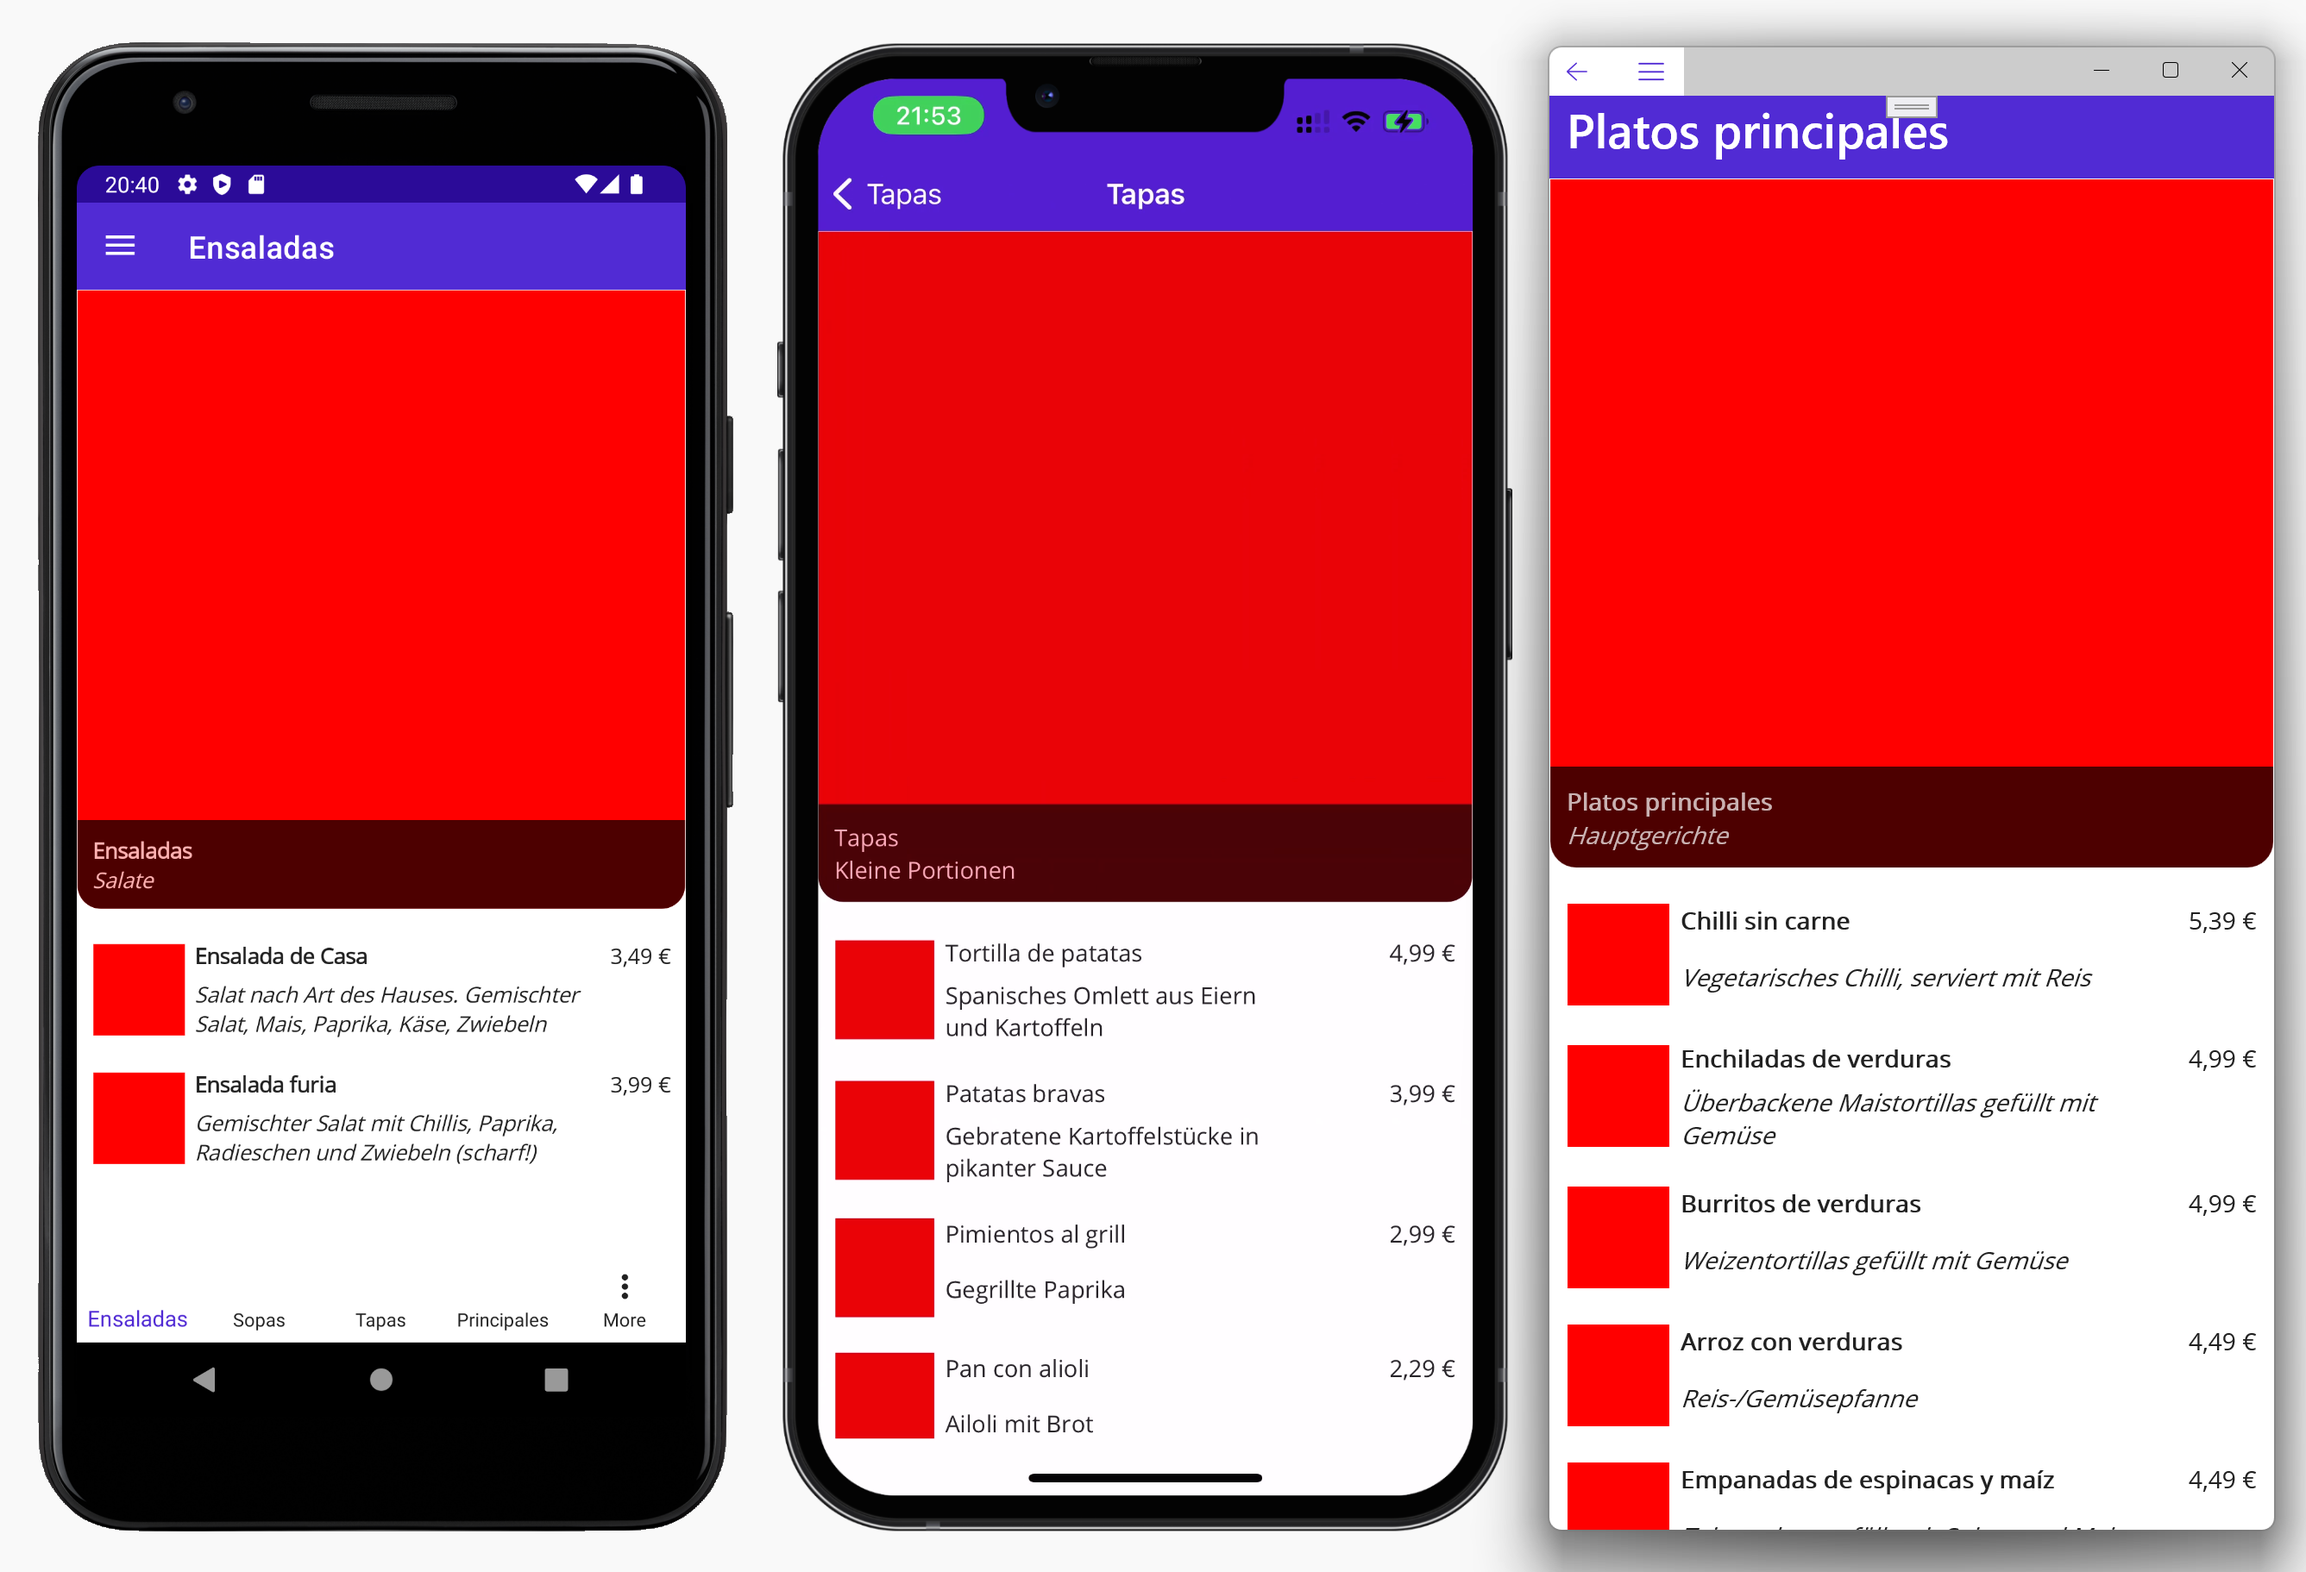
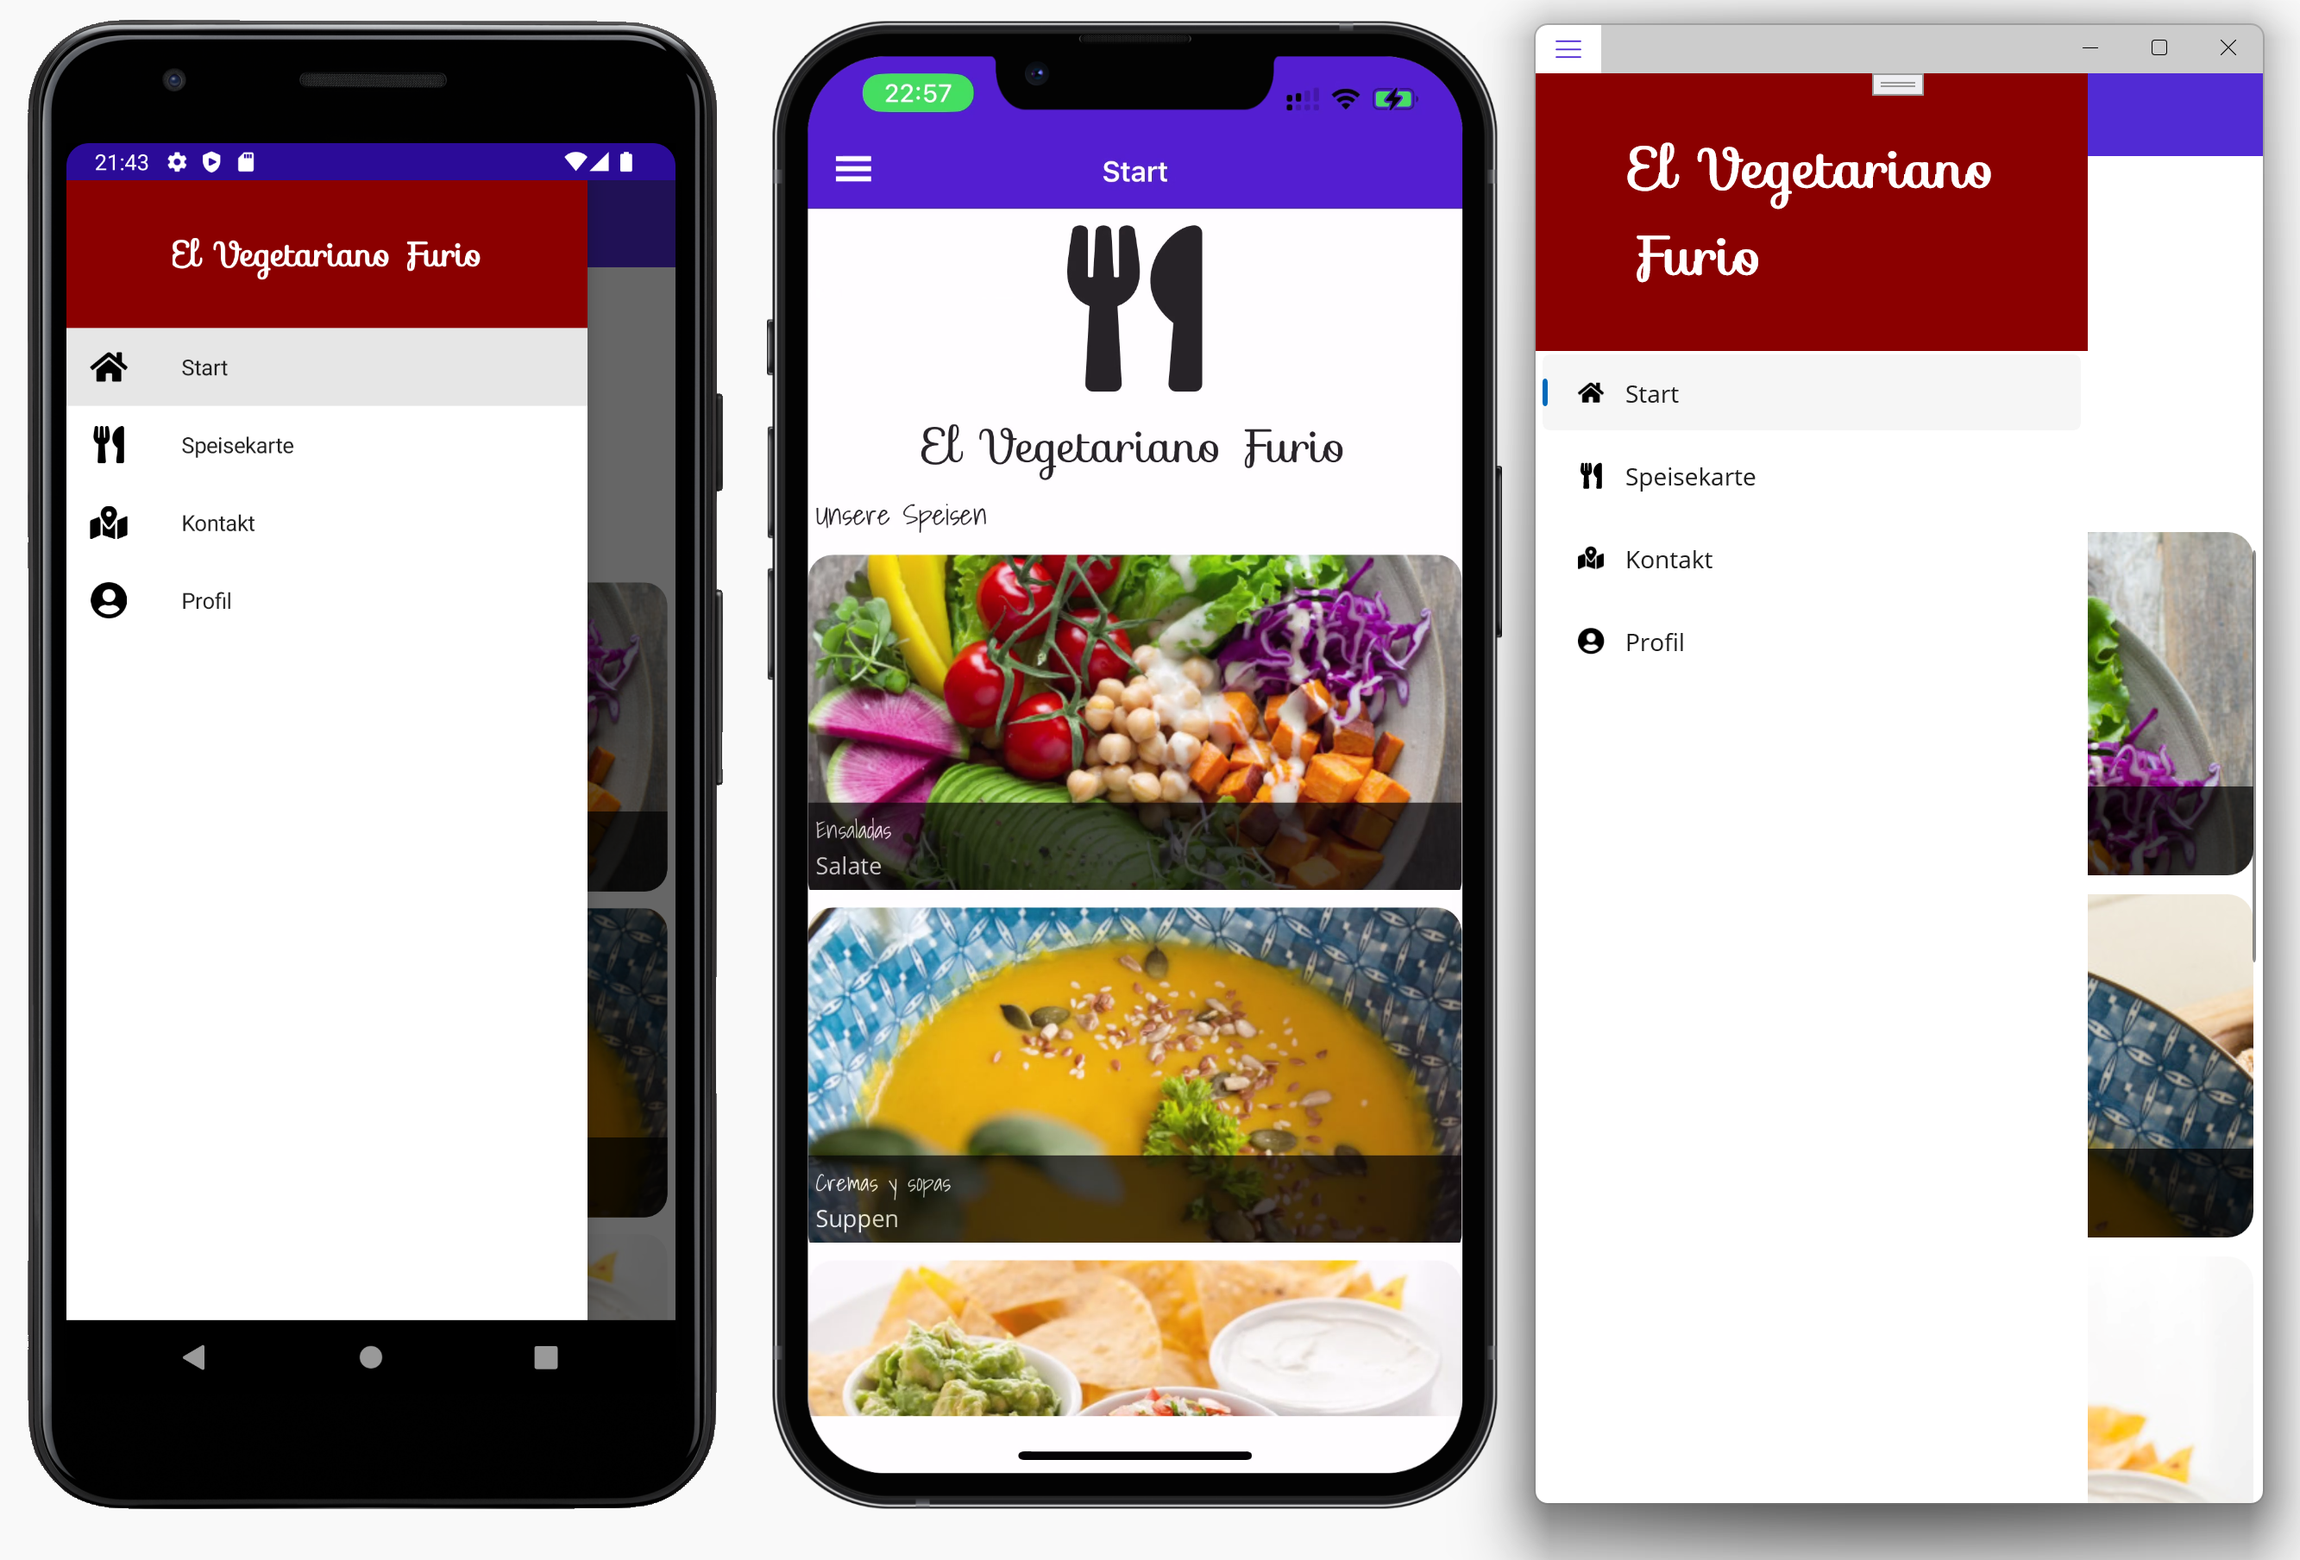
Übung 07: Start

diff --git a/lab.md b/lab.md
@@ -1,12 +1,10 @@
-# Übung 6: Navigation
+# Übung 7: Icons, Schriftarten und Bilder
 
-- Legen Sie in Ihrem Projekt `ElVegetarianoFurio` eine neue Seite `CategoryPage.xaml` im Ordner Menu an.
-- Legen Sie ein ViewModel `CategoryViewModel` mit den Eigenschaften  `Category` und `Dishes` an. Dishes ist eine ObservableCollection!
-- Legen Sie eine Methode zum Laden der Liste der Dishes über den DataService anhand der vorgegebenen Category an
-- Verbinden Sie View und ViewModel. 
-- Registrieren Sie View und ViewModel in der DependencyInjection und registrieren Sie eine Route für die CategoryPage
-- Erstellen Sie das Layout für die Seite `CategoryPage.xaml` analog zum Screenshot
-- Navigieren Sie beim Klick auf eine Kategorie der Startseite zur entsprechenden Kategorie auf der Kategorieseite
-- Bonus: Abstrahieren Sie die Navigationslogik der Shell in einen eigenen Service
-
+- Kopieren Sie die Bilder (alle JPG-Dateien) aus dem Ordner `Images` der Beispieldateien in den Ordner `Resources\Images` Ihres Projekts. Kopieren Sie nicht die Bilder aus den Unterordnern.
+- Kopieren Sie die Schriftarten (alle TTF- und OTF-Dateien) aus dem Ordner `Fonts` der Beispieldateien in den Ordner `Resources\Fonts` Ihres Projekts. 
+- Kopieren Sie die Datei `FaSolid.cs` aus dem Ordner `Fonts`der Beispieldateien in den Ordner `Core` Ihres Projekts. Passen Sie dabei den Namespace an.
+- Registrieren Sie die drei neuen Schriftarten in der Datei `MauiProgram.cs`
+- Ersetzen Sie in den Dateien `MainPage.xaml` und `CategoryPage.xaml` die roten Kästen durch die entsprechenden Bilder
+- Fügen Sie eine neue Grid-Zeile auf der Datei `MainPage.xaml` hinzu. Stellen Sie in dieser Zeile das Symbol `Utensils` der Schriftart FA-Solid dar. 
+- Bonus: Passen Sie das Menü in der Datei `AppShell.xaml` analog zum Screenshot an.
 ![Übung](lab.png)
